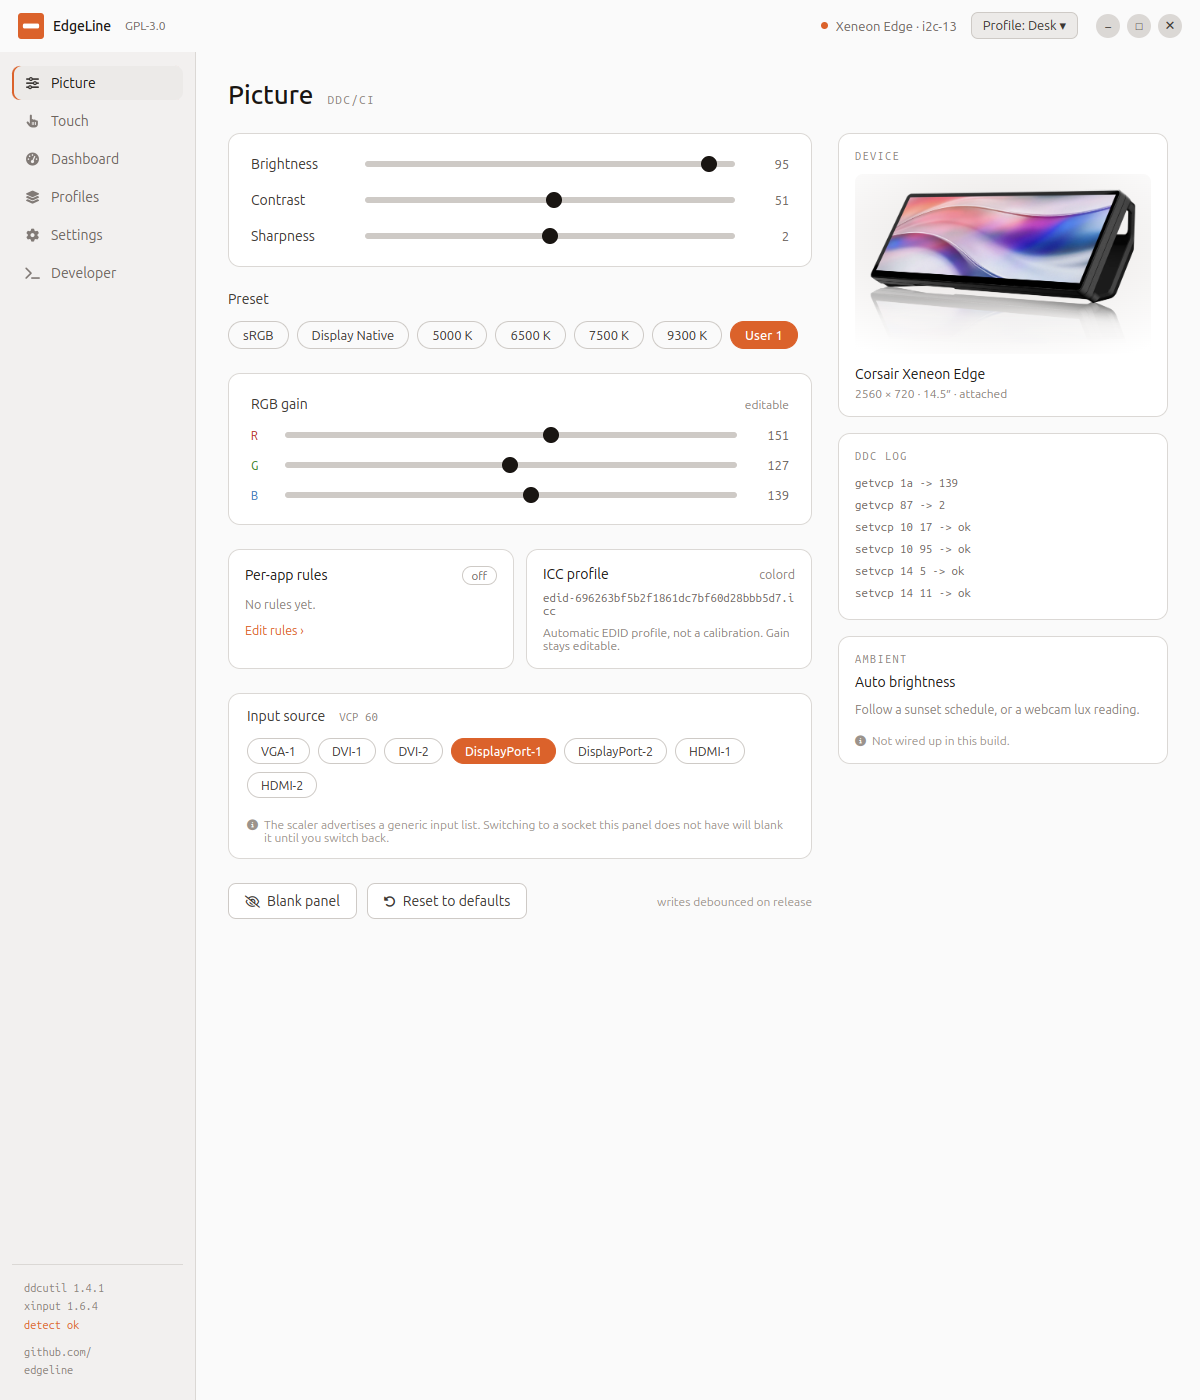
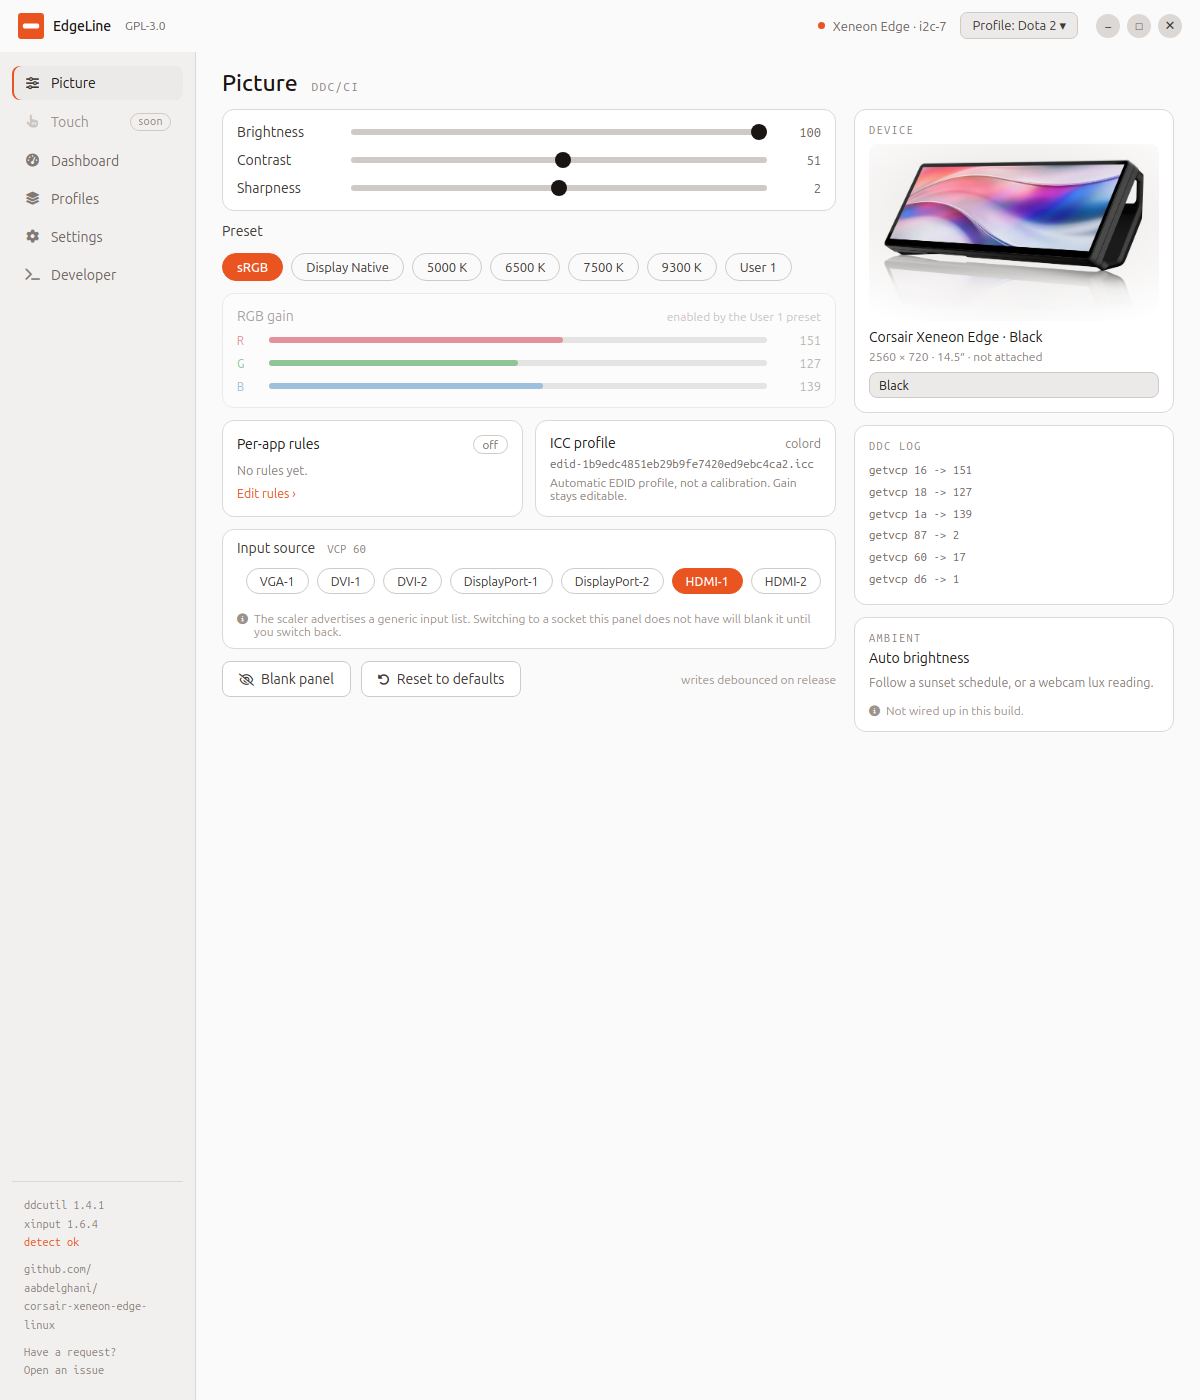
Refresh the stale screenshots, document how the Edge is found
The Picture, Profiles, Settings, Developer and Fedora dark screenshots
were from 0.4.0: a footer that read "github.com/edgeline", no "soon"
badge on Touch, no device label, no Match system in the theme picker.
Recaptured from 0.6.3.

The README now says how the Edge display is identified (exact size,
then a guarded 32:9 fallback for XWayland fractional scaling) and names
the one layout resolution cannot resolve: a 3840x1080 secondary with no
Edge attached.

diff --git a/README.md b/README.md
@@ -162,6 +162,21 @@ behalf.
 An AppImage is also attached to the release if you would rather not install
 anything.
 
+### How the Edge is found
+
+By resolution, never by connector name, because the connector index changes
+across reboots on this hardware. An exact 2560x720 display is taken first.
+Under XWayland with a fractionally scaled monitor elsewhere in the session the
+Edge is reported a little off that size (2555x719 at 145%, for instance), so a
+32:9 display is accepted as a fallback, but never the primary display and never
+anything wider than 4000, because a 49 inch 5120x1440 or 3840x1080 monitor is
+32:9 as well.
+
+One layout that cannot be resolved by resolution alone: a 3840x1080 monitor set
+as a secondary display, with no Edge attached, will be taken for the Edge. If
+that is your desk, keep the dashboard switched off; the rest of the app is
+unaffected.
+
 ## Use it from a terminal
 
 The command line talks to the same agent the window does, so the two cannot
